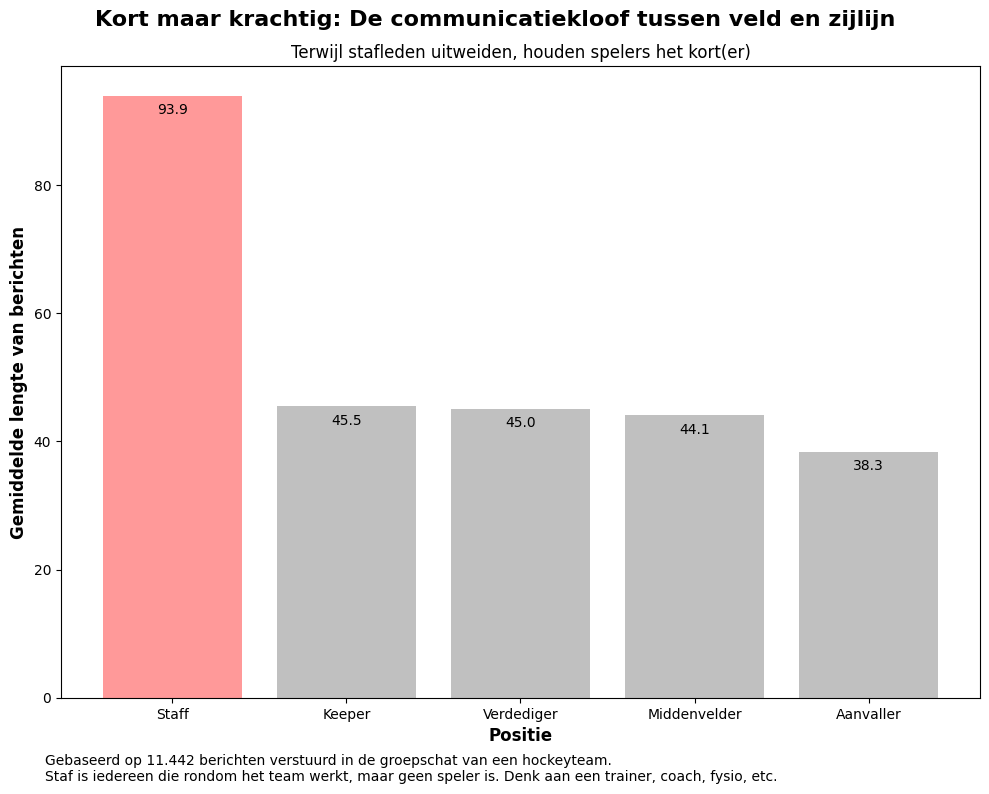
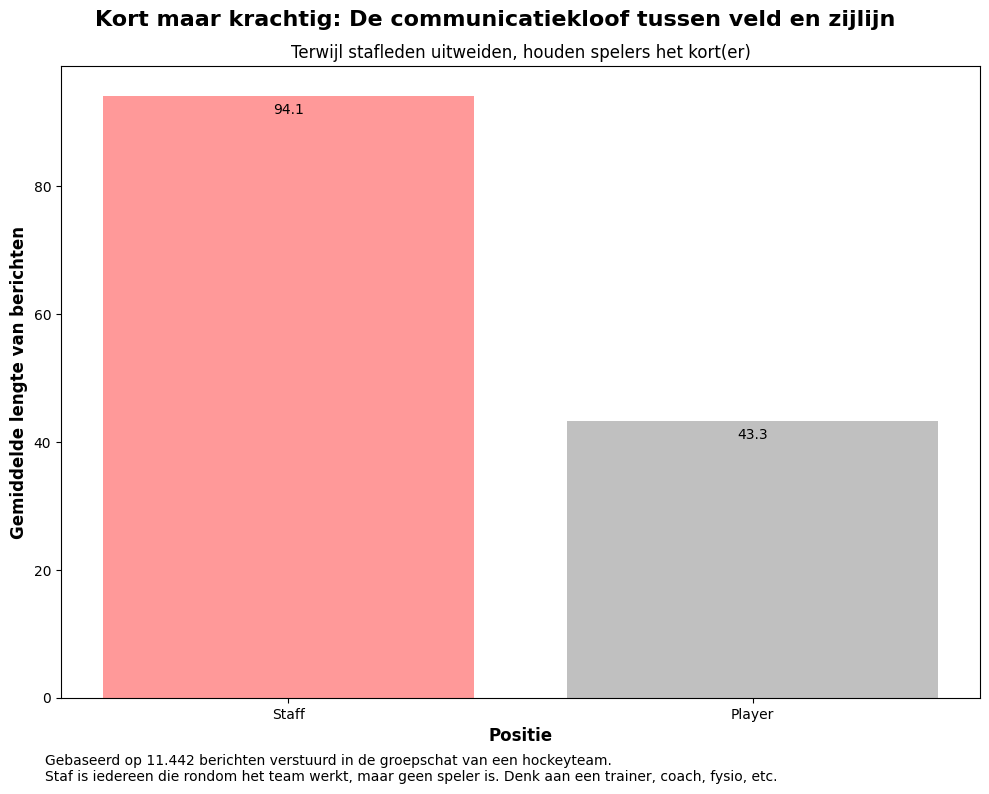
final version

diff --git a/src/wa_analysis/settings/settings.py b/src/wa_analysis/settings/settings.py
@@ -282,6 +282,6 @@ class ColoredPlotSettings(PlotSettings):
 class MessageCalculations(BaseModel):
     """Settings for message calculations."""
 
-    function_column: str = "Position"
+    function_column: str = "Function"  # aan te passen naar Position of iets anders
     message_column: str = "message"
     message_length_column: str = "message_length"
